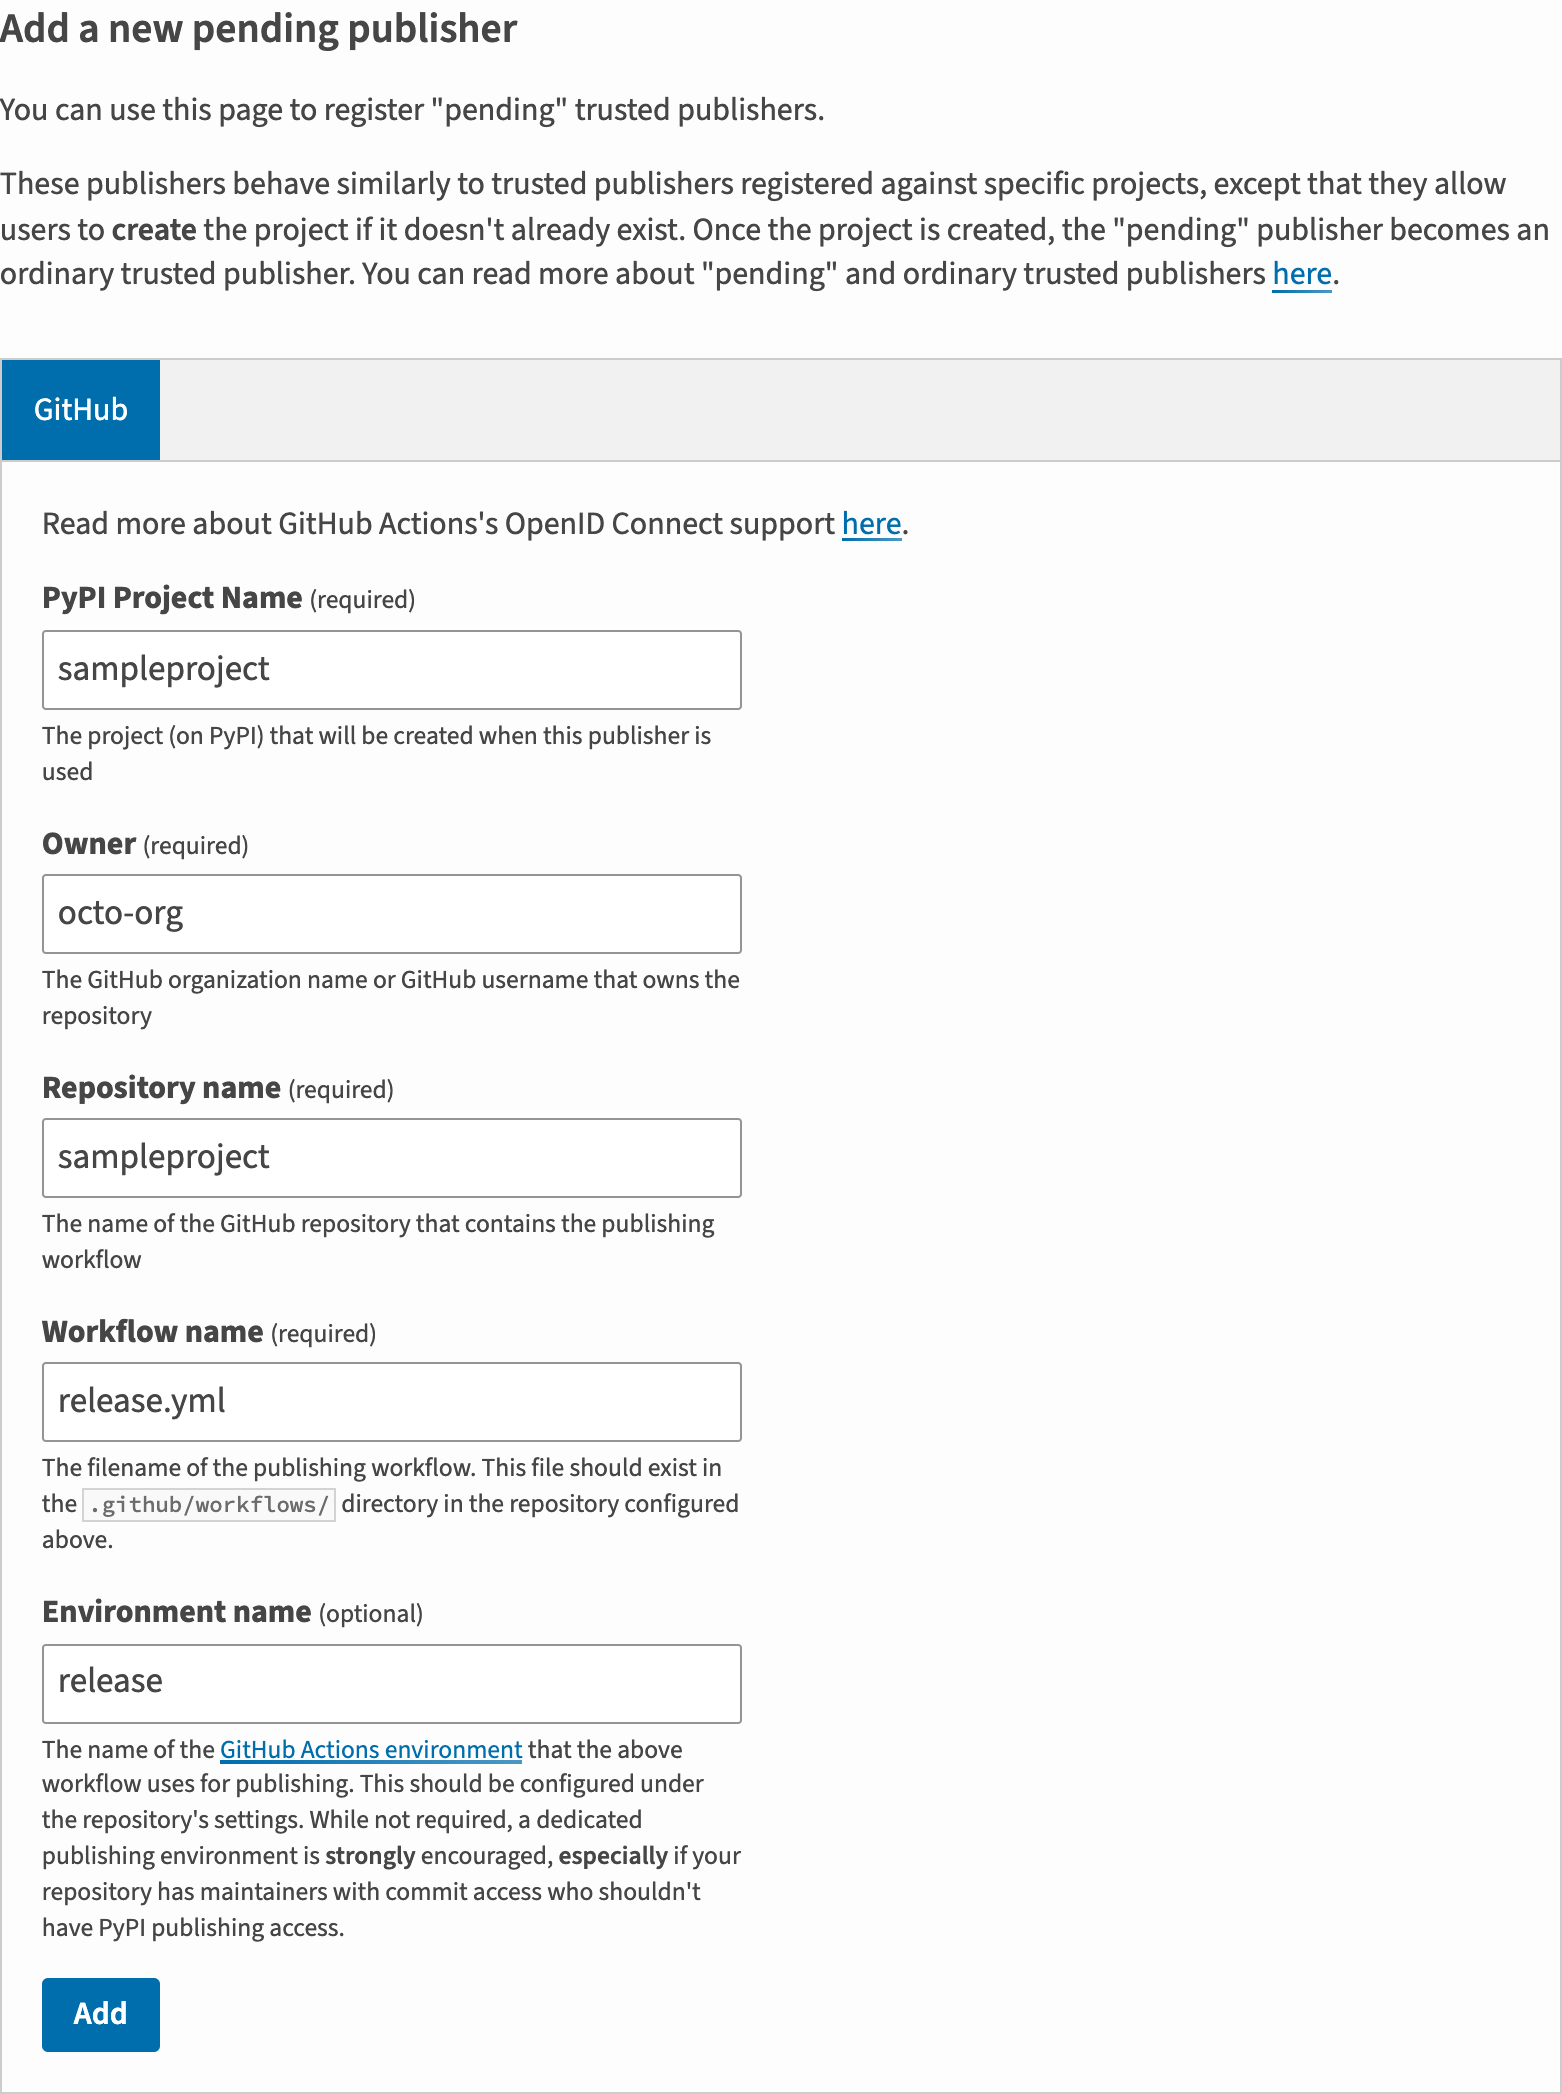
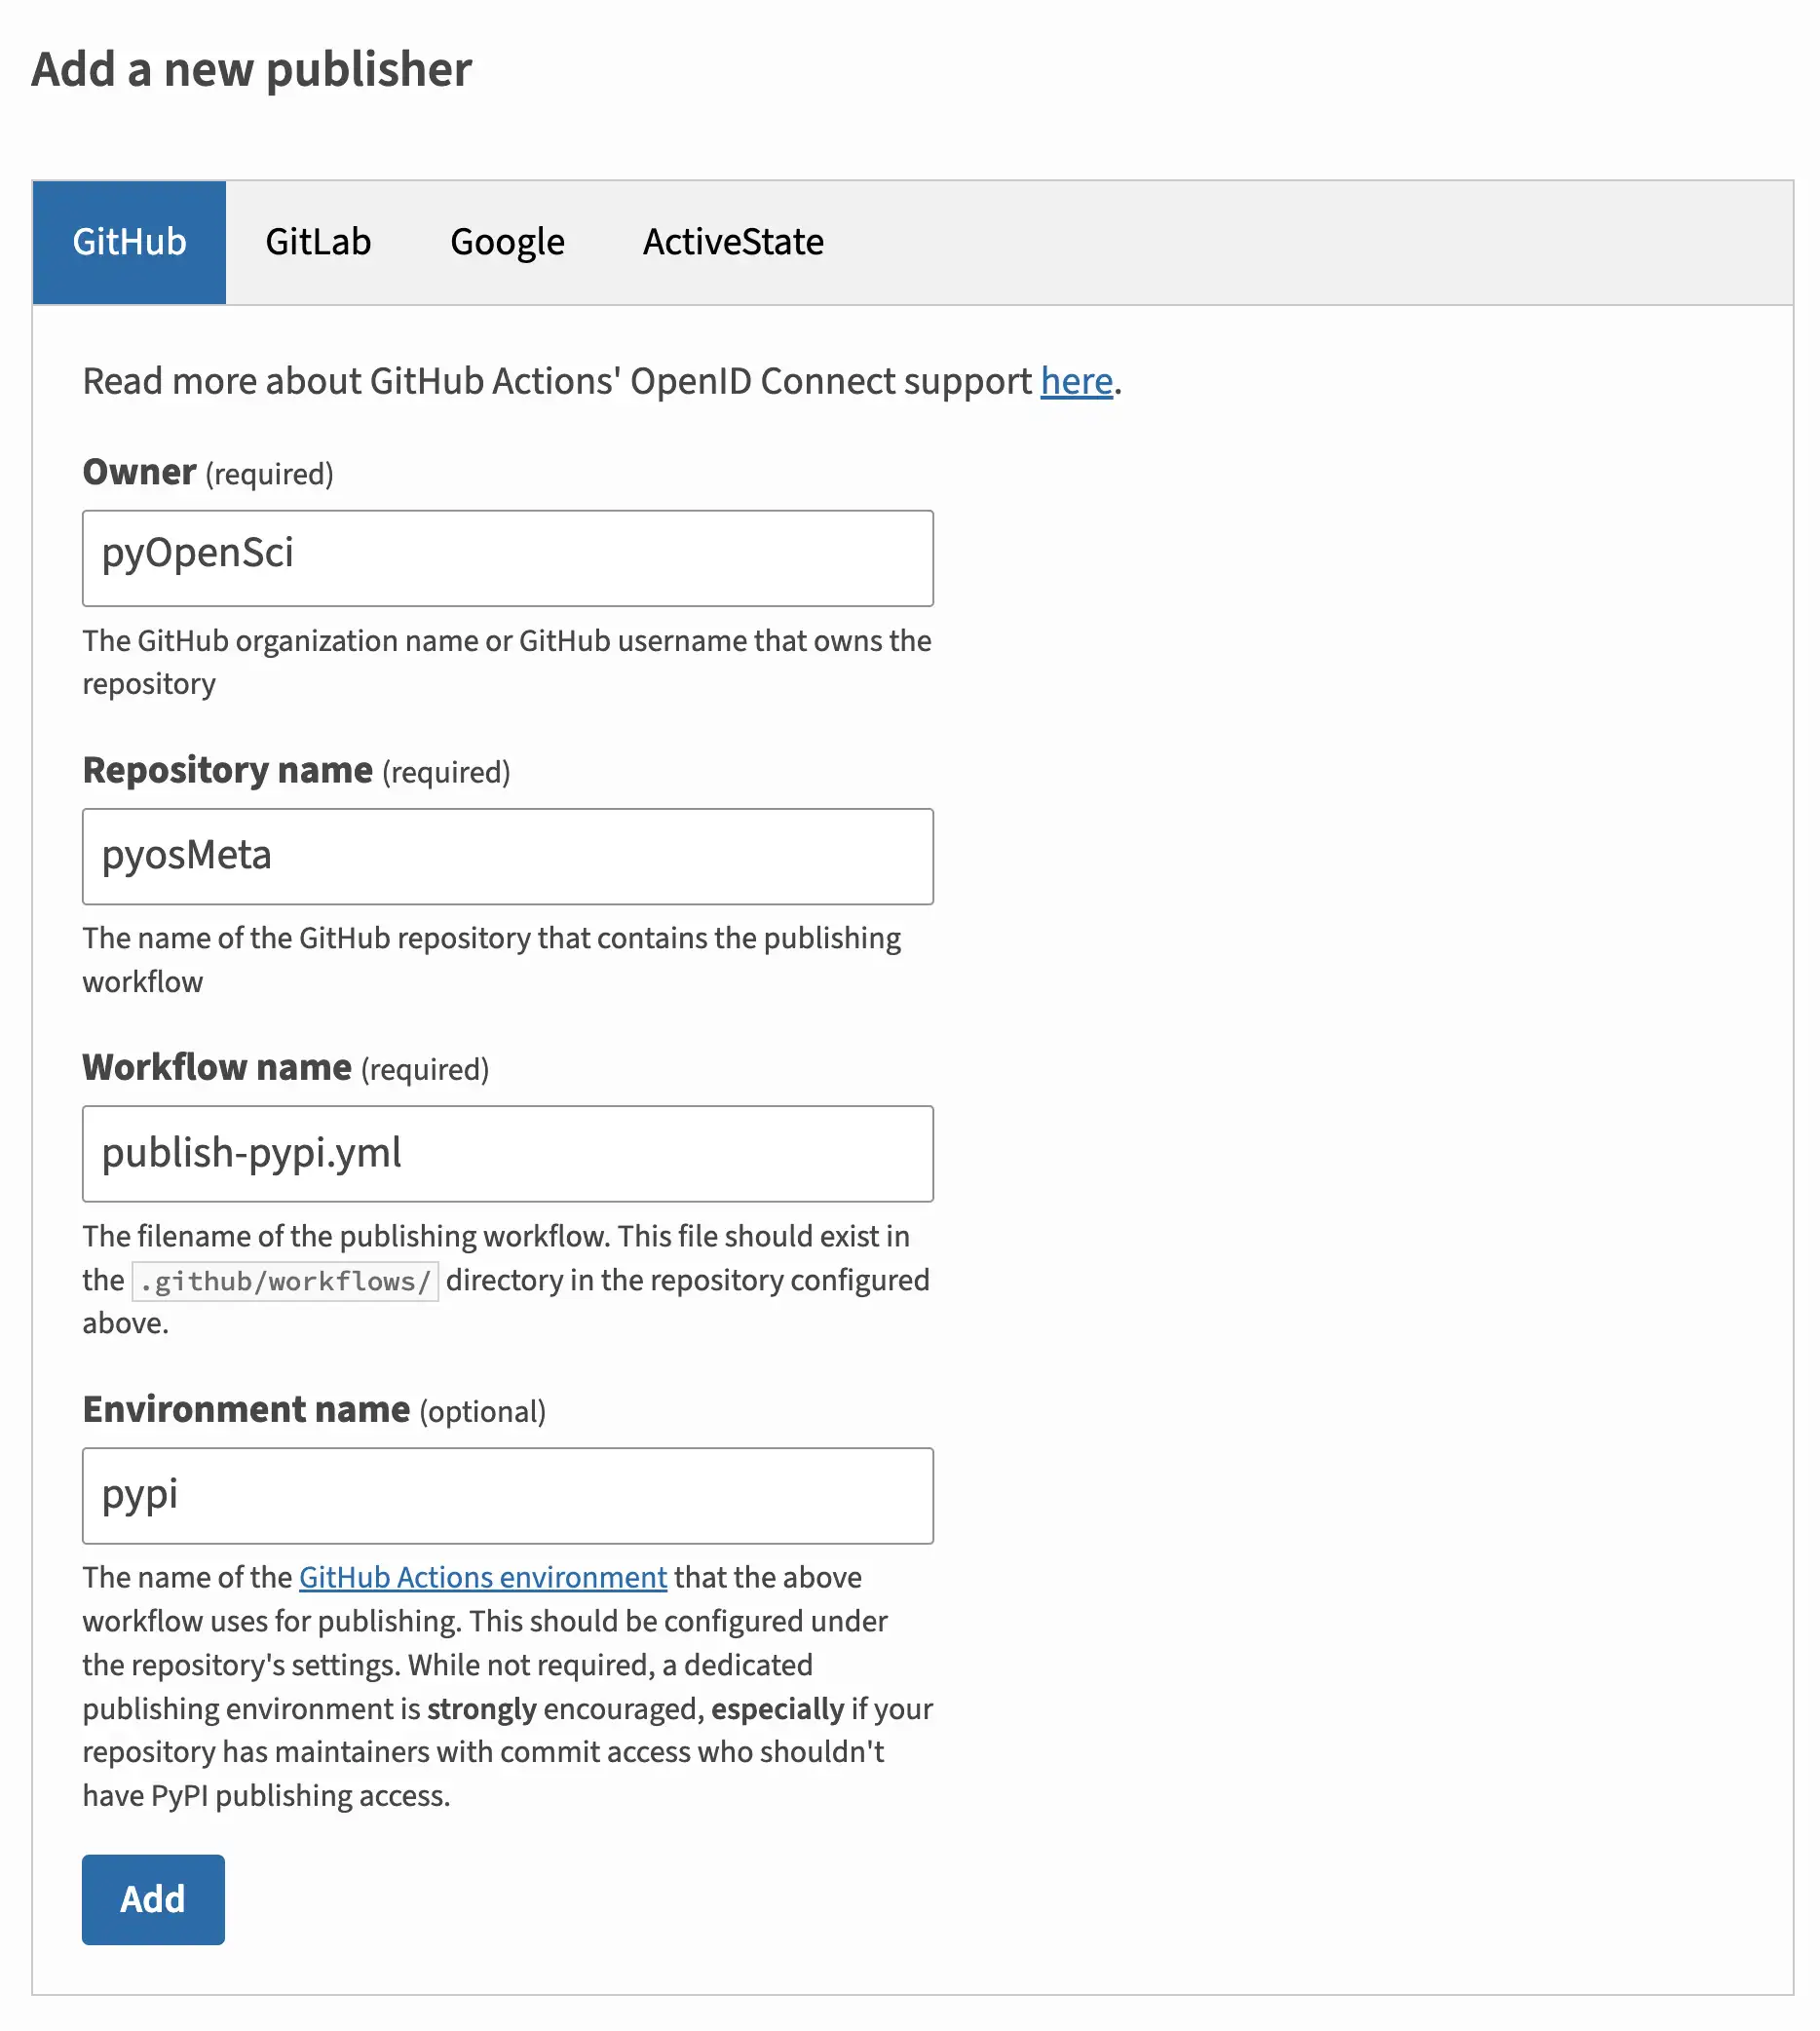
Fix: more images and removing todos

diff --git a/_sass/minimal-mistakes/_base.scss b/_sass/minimal-mistakes/_base.scss
@@ -262,6 +262,24 @@ pre {
   font-size: 1em;
 }
 
+
+
+
+kbd {
+    background-color: $kbd-color-background;
+    color: $kbd-color-text;
+    border-radius: 0.25rem;
+    box-shadow: 0 2px 0 1px $kbd-color-border;
+    line-height: 1;
+    font-size: .75em;
+    padding: .15em .25em;
+
+    &:hover {
+         box-shadow: 0 1px 0 0.5px $kbd-color-border;
+         top: 1px;
+  }
+}
+
 pre {
   overflow-x: auto; /* add scrollbars to wide code blocks*/
 }

diff --git a/_sass/minimal-mistakes/_variables.scss b/_sass/minimal-mistakes/_variables.scss
@@ -70,6 +70,11 @@ $h-size-4: 1.0625em !default; // ~17px
 $h-size-5: 1.03125em !default; // ~16.5px
 $h-size-6: 1em !default; // ~16px
 
+/* kbd colors */
+$kbd-color-background: #bbbdc3;
+$kbd-color-border: #999ba5;
+$kbd-color-text: #222325;
+
 /*
    Colors
    ========================================================================== */

diff --git a/_posts/2024-12-13-python-packaging-security.md b/_posts/2024-12-13-python-packaging-security.md
@@ -18,7 +18,7 @@ last_modified: 2024-12-19
 
 ## Is your PyPI publication workflow secure?
 
-We can learn a lot from the recent Python package breach [involving Ultralytics](https://blog.pypi.org/posts/2024-12-11-ultralytics-attack-analysis/). This breach highlighted our need to use more secure PyPI publishing workflows for Python packages.
+We can learn a lot from the Python package breach [involving Ultralytics](https://blog.pypi.org/posts/2024-12-11-ultralytics-attack-analysis/). This breach highlighted the importance of making our PyPI publishing workflows for Python packages more secure.
 
 In this breach, hackers exploited a GitHub action workflow to inject malicious code into a Python package. This package was then published to PyPI. The outcome: Users who downloaded the package unknowingly allowed their machines to be hijacked for Bitcoin mining.
 
@@ -28,11 +28,10 @@ While unsettling, there’s a silver lining: the PyPI security team had already 
 
 {% include pyos-blockquote.html quote="Because the Ultralytics project was using Trusted Publishing and the PyPA’s publishing GitHub Action: PyPI staff, volunteers, and security researchers were able to dig into how maliciously injected software was able to make its way into the package." author="Seth Larson, PSF Security Expert" class="highlight magenta" %}
 
-This incident underscores the importance of understanding Python packaging security best practices, and this includes understanding how to lock things down on GitHub & GitLab!
+This means that the important thing for us, as maintainers, is that we all should know how to lock down our publishing workflows.
+Here, I'll cover the lessons learned that you can apply TODAY to your Python packaging workflows!
 
-But never fear, here, I'll cover the lessons learned that you can apply TODAY to your Python packaging workflows!
-
-*Special thanks to [Sviatoslav Sydorenko](https://github.com/webknjaz) for reviewing this blog post!!*
+*Special thanks to [Sviatoslav Sydorenko](https://github.com/webknjaz) for reviewing and providing significant input on this blog post!!*
 
 <div class="notice" markdown="1">
 ## TL;DR Takeaways
@@ -58,7 +57,7 @@ Don’t wait--start securing your Python publishing workflows today. 🔒
 
 The Ultralytics breach highlights the need for us all to follow and understand secure PyPI publishing practices and carefully monitor workflows. Below are actionable steps you can take to enhance security when publishing Python packages to PyPI using GitHub actions.
 
-[PyPA provides a great overview of using actions to publish your Python package.](https://packaging.python.org/en/latest/guides/publishing-package-distribution-releases-using-github-actions-ci-cd-workflows/)
+<i class="fa-solid fa-circle-info"></i> [PyPA provides a great overview of using actions to publish your Python package.](https://packaging.python.org/en/latest/guides/publishing-package-distribution-releases-using-github-actions-ci-cd-workflows/)
 {: .notice }
 
 ## 1. Create a dedicated GitHub environment for publishing actions
@@ -83,16 +82,21 @@ If you look at the workflow example below, notice that we have an [environment c
 
 To lockdown a GitHub environment:
 
-* First, go to the **settings** in your repository where the workflow is run
+* First, go to the <kbd>Settings</kbd> in your repository where the workflow is run
 * Within settings, select **environments** from the left-hand sidebar
-* Add a new environment. Use `pypi` as your environment name; this is what PyPA (the Python Packaging Authority) recommends.
-* Ensure **Required reviewers** is enabled. This setting allows you to designate specific individuals who can approve and manually run the workflow on GitHub. Any reviewers you add must have the appropriate permissions to authorize the workflow by clicking a button. This adds a human verification step to the process.
-* Once the required reviewers are checked, add maintainers who you want to be able to enable the action to run.
+* Add a new environment. Use <kbd>pypi</kbd> as your environment name; this is what PyPA (the Python Packaging Authority) recommends.
+* Ensure <kbd>Required reviewers</kbd> is enabled. This setting allows you to designate specific individuals who can approve and manually run the workflow on GitHub. Any reviewers you add must have the appropriate permissions to authorize the workflow by clicking a button. This adds a human verification step to the process.
+* Once the <kbd>Required reviewers</kbd> button is checked, add maintainers who you want to be able to enable the action to run.
 
-*Optionally, you can prevent self-review, preventing someone from triggering a release or a build and then running it!*
+*Optionally, you can click <kbd>prevent self-review</kbd>, preventing someone from triggering a release or a build and then running it!*
 
-TODO: add an animated gif that shows the process on GitHub of creating the environment in setting and adding users. Or add screenshots.
-{: .notice }
+<figure>
+    <img src="/images/python-packaging/create-github-environment.gif" alt="Animated gif file that shows the github interface where you can click on settings and go to the environment setting to create or edit a GitHub environment">
+  <figcaption>
+    To create a new environment to use in a GitHub action, 1) go to your repo's settings; 2) click <kbd>environment</kbd>; 3) add a new environment. In this screenshot, we already have a <kbd>pypi</kbd> environment created. Note that you can name your environment whatever you want, however, PyPI suggests that you use the name <kbd>pypi</kbd> for a Trusted Publisher workflow.
+  </figcaption>
+</figure>
+
 
 <figure>
     <img src="/images/python-packaging/github-action-environment-pypi.png" alt="Screenshot of the GitHub settings interface showing the ‘Environments’ section with configuration options for ‘pypi.’ The ‘Deployment protection rules’ section is visible, with ‘Required reviewers’ enabled and two reviewers listed: ‘lwasser’ and ‘willingc.’ Other options such as ‘Prevent self-review’ and ‘Wait timer’ are present but not enabled.">
@@ -135,6 +139,7 @@ The steps for setting up Trusted Publisher are:
 7. Fill out a form that looks like the one below in the add a new pending publisher section. Notice that you can select GitHub, GitLab, Google and Active State as platforms.
 10. Notice that the form asks for your project name, owner, repo name, workflow's file name, and environment (**STRONGLY recommended**).
 
+
 <figure>
   <picture>
     <source srcset="/images/python-packaging/trusted-publisher-form.webp" type="image/webp">
@@ -146,6 +151,18 @@ The steps for setting up Trusted Publisher are:
 </figure>
 
 For an example of a GitHub workflow that uses trusted publishing, check out our active pyOpenSci [PyPI publishing GitHub workflow](https://github.com/pyOpenSci/pyosMeta/blob/main/.github/workflows/publish-pypi.yml), which follows the Trusted Publisher approach.
+
+
+<figure>
+  <picture>
+    <source srcset="/images/python-packaging/trusted-publisher-manage.webp" type="image/webp">
+    <img src="trusted-publisher-form.webp" alt="PyPI Trusted Publisher manage settings showing what the Trusted Publisher setup looks like after you've created it in PyPI. It shows all of the items that you filled out in the form and has a remove button if you want to remove it from PyPI. " loading="lazy">
+  </picture>
+  <figcaption>
+    Example of the PyPI Trusted Publisher setup in PyPI once you've created the Trusted PuUblisher link by filling the form out above.
+  </figcaption>
+</figure>
+
 
 **Note:** Read more here about [support for publishing to GitLab](https://docs.pypi.org/trusted-publishers/adding-a-publisher/#gitlab-cicd) using trusted publishing.
 {: .notice }